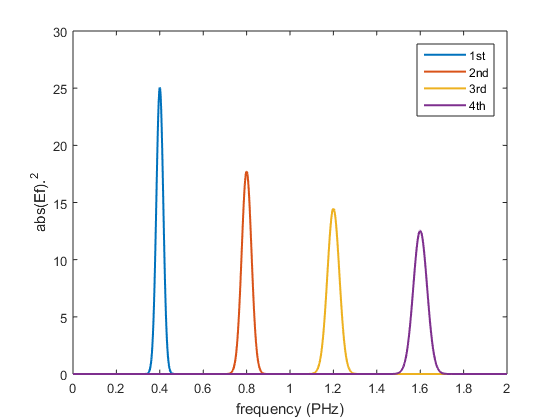
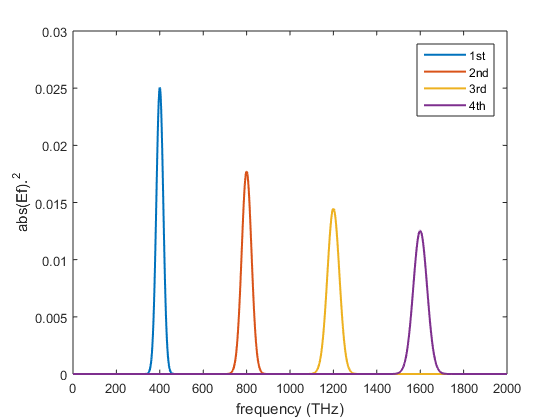
updated example files

diff --git a/manual/example_files/pulse_harmonics.html b/manual/example_files/pulse_harmonics.html
@@ -75,13 +75,14 @@ t = (-n/2:n/2-1).' * dt;
 Et = exp(-(t-t0).^2/s^2 -2i*pi*t*f0);
 <span class="comment">% LaserPulse object</span>
 p1 = LaserPulse(t, <span class="string">'fs'</span>, Et);
+p1.frequencyUnits = <span class="string">'THz'</span>;
 p1.normalize()
 </pre><h2>Calculate harmonics<a name="2"></a></h2><p>The power operator works, by default, on the time dimension. This allows calculating harmonics using a short notation:</p><pre class="codeinput">pshg = p1.^2;
 pthg = p1.^3;
 pfhg = p1.^4;
 <span class="comment">% Normalized the pulses to make it easier to plot them on the same scale.</span>
 normalize(pshg); normalize(pthg); normalize(pfhg);
-</pre><h2>Plot harmonics<a name="3"></a></h2><pre class="codeinput">figure();
+</pre><h2>Plot harmonics<a name="3"></a></h2><p>The following figure displays the spectral intensity of the harmonics, in function of frequency.</p><pre class="codeinput">figure();
 plot(p1.frequencyArray,p1.spectralIntensity, <span class="keyword">...</span>
   pshg.frequencyArray,pshg.spectralIntensity, <span class="keyword">...</span>
   pthg.frequencyArray,pthg.spectralIntensity, <span class="keyword">...</span>
@@ -89,9 +90,14 @@ plot(p1.frequencyArray,p1.spectralIntensity, <span class="keyword">...</span>
   <span class="string">'LineWidth'</span>, 1.5);
 xlabel([<span class="string">'frequency ('</span>, p1.frequencyUnits, <span class="string">')'</span>]);
 ylabel(<span class="string">'abs(Ef).^2'</span>);
-axis([0 2 0 30])
+axis([0 2000 0 0.03])
 legend(<span class="string">'1st'</span>,<span class="string">'2nd'</span>,<span class="string">'3rd'</span>, <span class="string">'4th'</span>);
-</pre><img vspace="5" hspace="5" src="pulse_harmonics_01.png" alt=""> <p class="footer"><br><a href="http://www.mathworks.com/products/matlab/">Published with MATLAB&reg; R2015a</a><br></p></div><!--
+</pre><img vspace="5" hspace="5" src="pulse_harmonics_01.png" alt=""> <p>The following figure displays the spectra, in function of wavelength.</p><pre class="codeinput">p1.plotSpectrum; hold <span class="string">on</span>
+pshg.plotSpectrum(gcf);
+pthg.plotSpectrum(gcf);
+pfhg.plotSpectrum(gcf); hold <span class="string">off</span>
+legend(<span class="string">'1st'</span>,<span class="string">'2nd'</span>,<span class="string">'3rd'</span>, <span class="string">'4th'</span>);
+</pre><img vspace="5" hspace="5" src="pulse_harmonics_02.png" alt=""> <p class="footer"><br><a href="http://www.mathworks.com/products/matlab/">Published with MATLAB&reg; R2015a</a><br></p></div><!--
 ##### SOURCE BEGIN #####
 %% Example of calculation of harmonics
 
@@ -105,6 +111,7 @@ t = (-n/2:n/2-1).' * dt;
 Et = exp(-(t-t0).^2/s^2 -2i*pi*t*f0);
 % LaserPulse object
 p1 = LaserPulse(t, 'fs', Et);
+p1.frequencyUnits = 'THz';
 p1.normalize()
 
 %% Calculate harmonics
@@ -116,6 +123,9 @@ pfhg = p1.^4;
 % Normalized the pulses to make it easier to plot them on the same scale.
 normalize(pshg); normalize(pthg); normalize(pfhg);
 %% Plot harmonics
+% The following figure displays the spectral intensity of the harmonics, in
+% function of frequency.
+
 figure();
 plot(p1.frequencyArray,p1.spectralIntensity, ...
   pshg.frequencyArray,pshg.spectralIntensity, ...
@@ -124,7 +134,15 @@ plot(p1.frequencyArray,p1.spectralIntensity, ...
   'LineWidth', 1.5);
 xlabel(['frequency (', p1.frequencyUnits, ')']);
 ylabel('abs(Ef).^2');
-axis([0 2 0 30])
+axis([0 2000 0 0.03])
+legend('1st','2nd','3rd', '4th');
+
+%%
+% The following figure displays the spectra, in function of wavelength.
+p1.plotSpectrum; hold on
+pshg.plotSpectrum(gcf);
+pthg.plotSpectrum(gcf);
+pfhg.plotSpectrum(gcf); hold off
 legend('1st','2nd','3rd', '4th');
 
 ##### SOURCE END #####

diff --git a/examples/pulse_harmonics.m b/examples/pulse_harmonics.m
@@ -10,6 +10,7 @@ t = (-n/2:n/2-1).' * dt;
 Et = exp(-(t-t0).^2/s^2 -2i*pi*t*f0);
 % LaserPulse object
 p1 = LaserPulse(t, 'fs', Et);
+p1.frequencyUnits = 'THz';
 p1.normalize()
 
 %% Calculate harmonics
@@ -21,6 +22,9 @@ pfhg = p1.^4;
 % Normalized the pulses to make it easier to plot them on the same scale.
 normalize(pshg); normalize(pthg); normalize(pfhg);
 %% Plot harmonics
+% The following figure displays the spectral intensity of the harmonics, in
+% function of frequency.
+
 figure();
 plot(p1.frequencyArray,p1.spectralIntensity, ...
   pshg.frequencyArray,pshg.spectralIntensity, ...
@@ -29,5 +33,13 @@ plot(p1.frequencyArray,p1.spectralIntensity, ...
   'LineWidth', 1.5);
 xlabel(['frequency (', p1.frequencyUnits, ')']);
 ylabel('abs(Ef).^2');
-axis([0 2 0 30])
+axis([0 2000 0 0.03])
+legend('1st','2nd','3rd', '4th');
+
+%%
+% The following figure displays the spectra, in function of wavelength.
+p1.plotSpectrum; hold on
+pshg.plotSpectrum(gcf);
+pthg.plotSpectrum(gcf);
+pfhg.plotSpectrum(gcf); hold off
 legend('1st','2nd','3rd', '4th');
